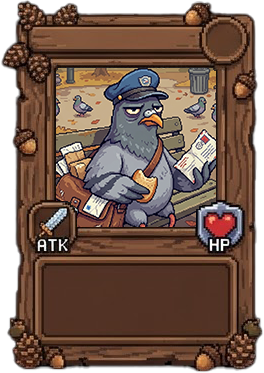
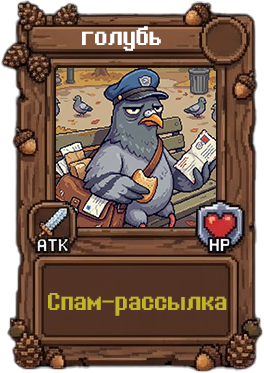
режим старого тв

Changed region(s): [[0.1818, 0.7668, 0.8788, 0.8552], [0.303, 0.059, 0.6061, 0.1475]]

diff --git a/css/style.css b/css/style.css
@@ -124,23 +124,19 @@ body {
   object-fit: cover;
 }
 
-#video-wrapper.board-game-mode .crt-overlay {
-  display: none;
-}
-
-/* Мягкий ретро-эффект CRT */
+/* Ретро ТВ / CRT сканлайн-эффект на все режимы поверх всех кнопок и элементов UI */
 .crt-overlay {
   position: absolute;
   top: 0;
   left: 0;
   width: 100%;
   height: 100%;
-  background: linear-gradient(rgba(18, 16, 16, 0) 50%, rgba(0, 0, 0, 0.22) 50%),
-    radial-gradient(circle, transparent 70%, rgba(0, 0, 0, 0.45) 100%);
+  background:
+    linear-gradient(rgba(18, 16, 16, 0) 50%, rgba(0, 0, 0, 0.32) 50%),
+    radial-gradient(ellipse at center, rgba(0, 0, 0, 0) 65%, rgba(0, 0, 0, 0.42) 100%);
   background-size: 100% 4px, 100% 100%;
   pointer-events: none;
-  z-index: 4;
-  opacity: 0.1;
+  z-index: 99999;
 }
 
 /* ==========================================================================

diff --git a/index.html b/index.html
@@ -17,7 +17,6 @@
     <div id="video-wrapper">
       <video id="bg-video" src="assets/videos/MainMenu%20-%20Waiting.mp4" autoplay loop muted playsinline
         preload="auto"></video>
-      <div class="crt-overlay"></div>
     </div>
 
     <!-- Игровой Canvas для геймплейных этапов (платформер, настолка, босс) -->
@@ -387,6 +386,9 @@
       <!-- Уведомления -->
       <div id="toast-container"></div>
     </div>
+
+    <!-- Ретро ТВ / CRT сканлайн-эффект на все режимы поверх всех кнопок и элементов UI -->
+    <div class="crt-overlay" aria-hidden="true"></div>
   </div>
 
   <!-- Главный скрипт модулей ES6 -->

diff --git a/js/main.js b/js/main.js
@@ -161,6 +161,7 @@ class BirDayApp {
     if (this.btnMarketIntroContinue) {
       this.btnMarketIntroContinue.addEventListener('click', () => {
         audio.playClick();
+        audio.playDialog('DIALOG3');
         this.hideMarketIntro();
         if (this.btnSkipVideo) {
           this.btnSkipVideo.classList.remove('hidden');
